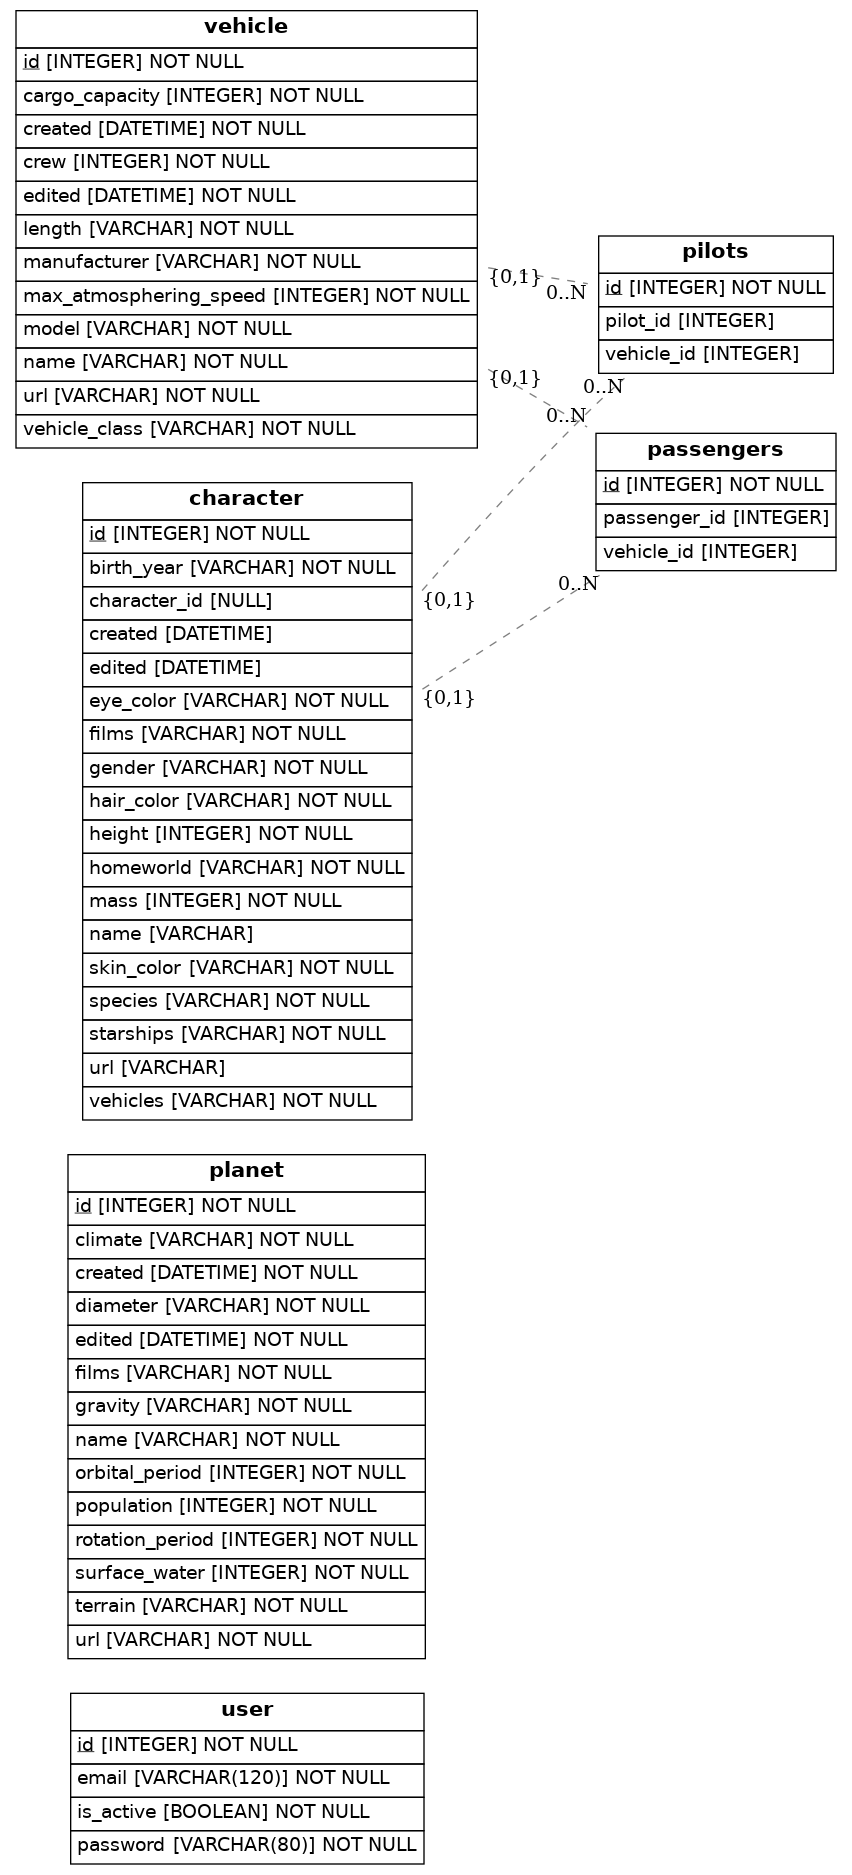
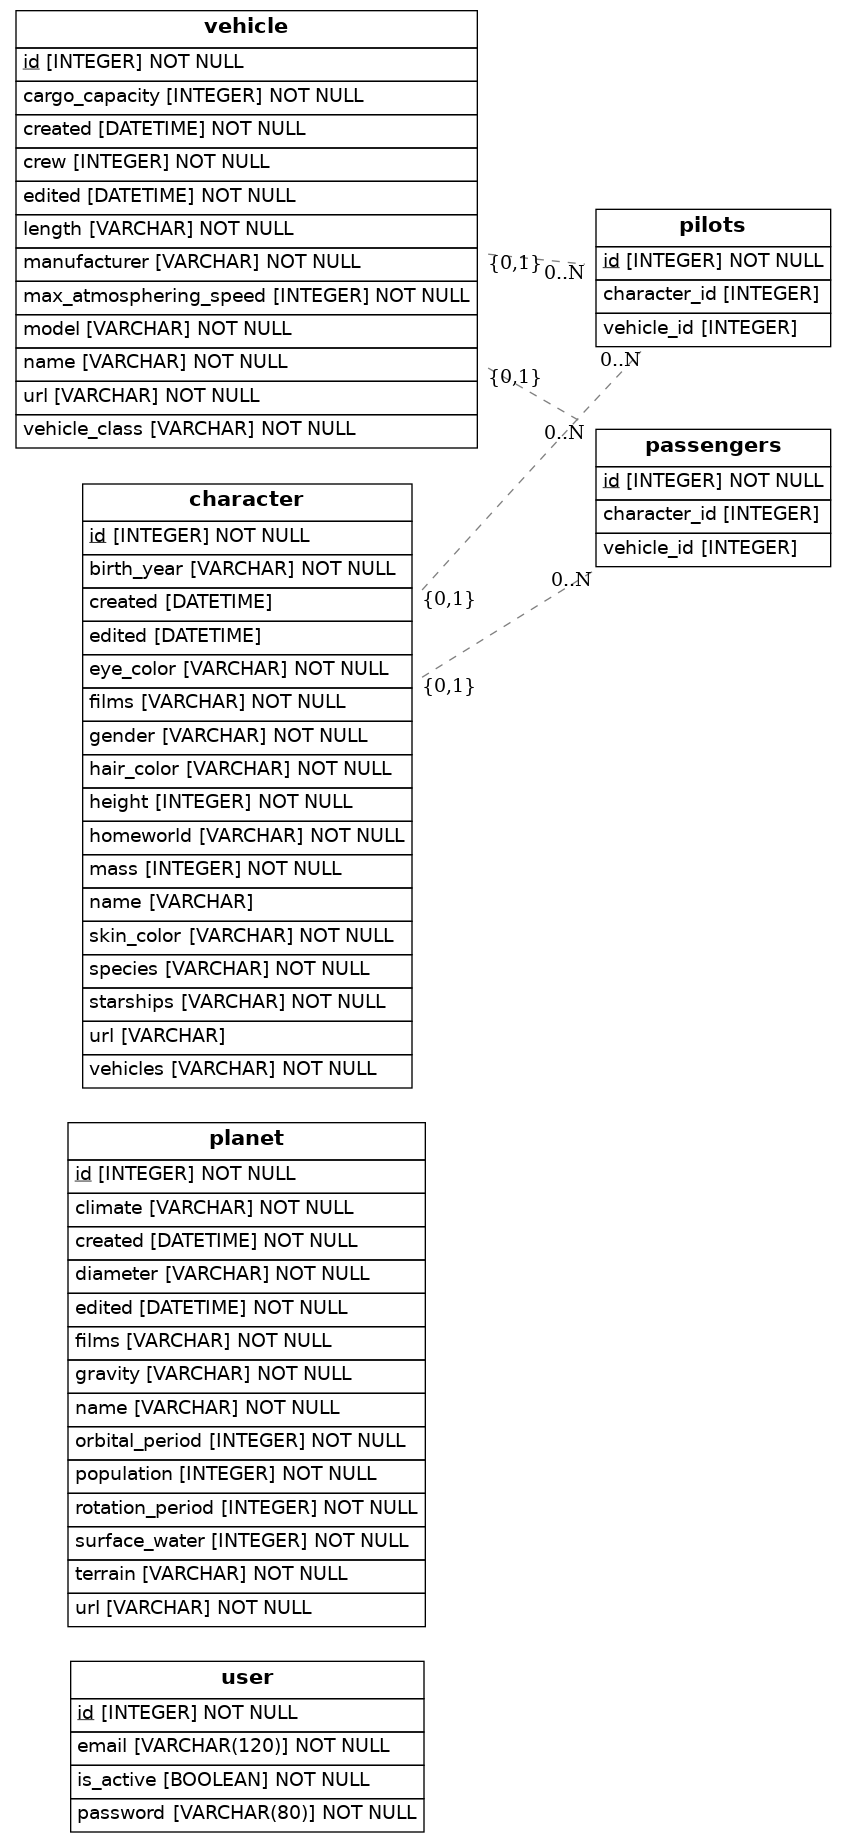
Add relationship

Changed region(s): [[0.0307, 0.0, 0.9823, 1.0]]

diff --git a/src/models.py b/src/models.py
@@ -7,6 +7,8 @@ from eralchemy2 import render_er
 
 Base = declarative_base()
 
+Base = declarative_base()
+
 
 class User(Base):
     __tablename__ = "user"
@@ -35,6 +37,24 @@ class Planet(Base):
     edited = Column(DateTime, nullable=False)
 
 
+pilots = Table(
+    "pilots",
+    Base.metadata,
+    Column("id", Integer, primary_key=True),
+    Column("vehicle_id", ForeignKey("vehicle.id")),
+    Column("character_id", ForeignKey("character.id")),
+)
+
+
+passengers = Table(
+    "passengers",
+    Base.metadata,
+    Column("id", Integer, primary_key=True),
+    Column("vehicle_id", ForeignKey("vehicle.id")),
+    Column("character_id", ForeignKey("character.id")),
+)
+
+
 class Vehicle(Base):
     __tablename__ = "vehicle"
     id = Column(Integer, primary_key=True)
@@ -50,25 +70,15 @@ class Vehicle(Base):
     created = Column(DateTime, nullable=False)
     edited = Column(DateTime, nullable=False)
     url = Column(String, nullable=False, unique=True)
-
-
-class Pilots(DeclarativeBase):
-    pilots = Table(
-        "pilots",
-        Base.metadata,
-        Column("id", Integer, primary_key=True),
-        Column("vehicle_id", ForeignKey("vehicle.id")),
-        Column("pilot_id", ForeignKey("character.id")),
+    pilots = relationship(
+        "Character",
+        secondary=pilots,
+        backref="vehicles",
     )
-
-
-class Passengers(DeclarativeBase):
-    passengers = Table(
-        "passengers",
-        Base.metadata,
-        Column("id", Integer, primary_key=True),
-        Column("vehicle_id", ForeignKey("vehicle.id")),
-        Column("passenger_id", ForeignKey("character.id")),
+    passengers = relationship(
+        "Character",
+        secondary=passengers,
+        backref="vehicles",
     )
 
 
@@ -76,7 +86,6 @@ class Character(Base):
     __tablename__ = "character"
     id = Column(Integer, primary_key=True)
     name = Column(String)
-    character_id = Column(ForeignKey("Character.id"))
     height = Column(Integer, nullable=False)
     mass = Column(Integer, nullable=False)
     hair_color = Column(String, nullable=False)
@@ -93,6 +102,8 @@ class Character(Base):
     edited = Column(DateTime)
     url = Column(String)
 
+
+# Draw from SQLAlchemy base
 
 ## Draw from SQLAlchemy base
 render_er(Base, "diagram.png")
